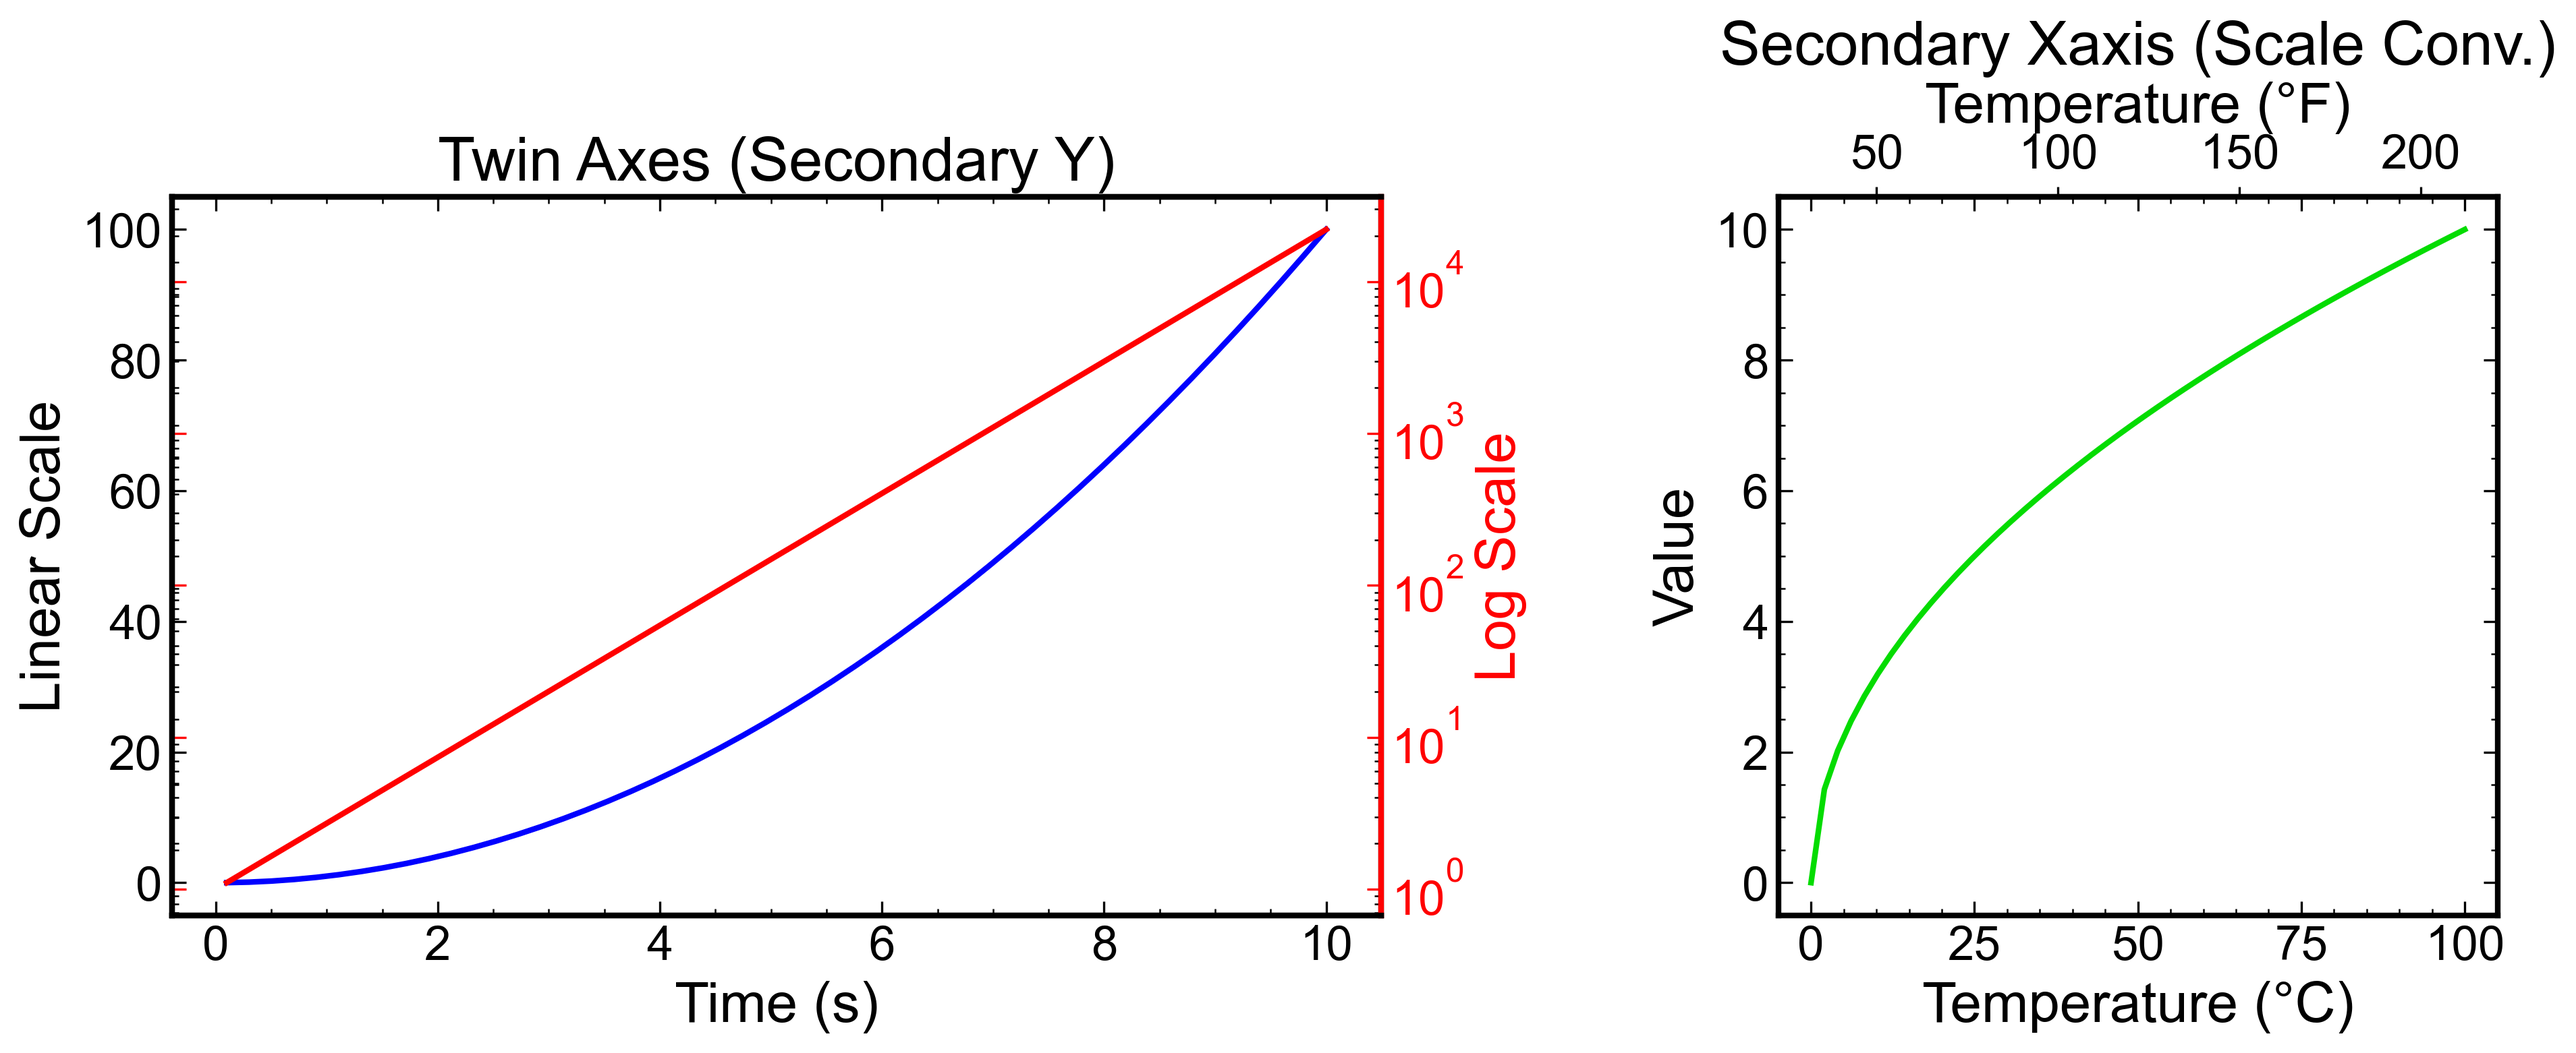
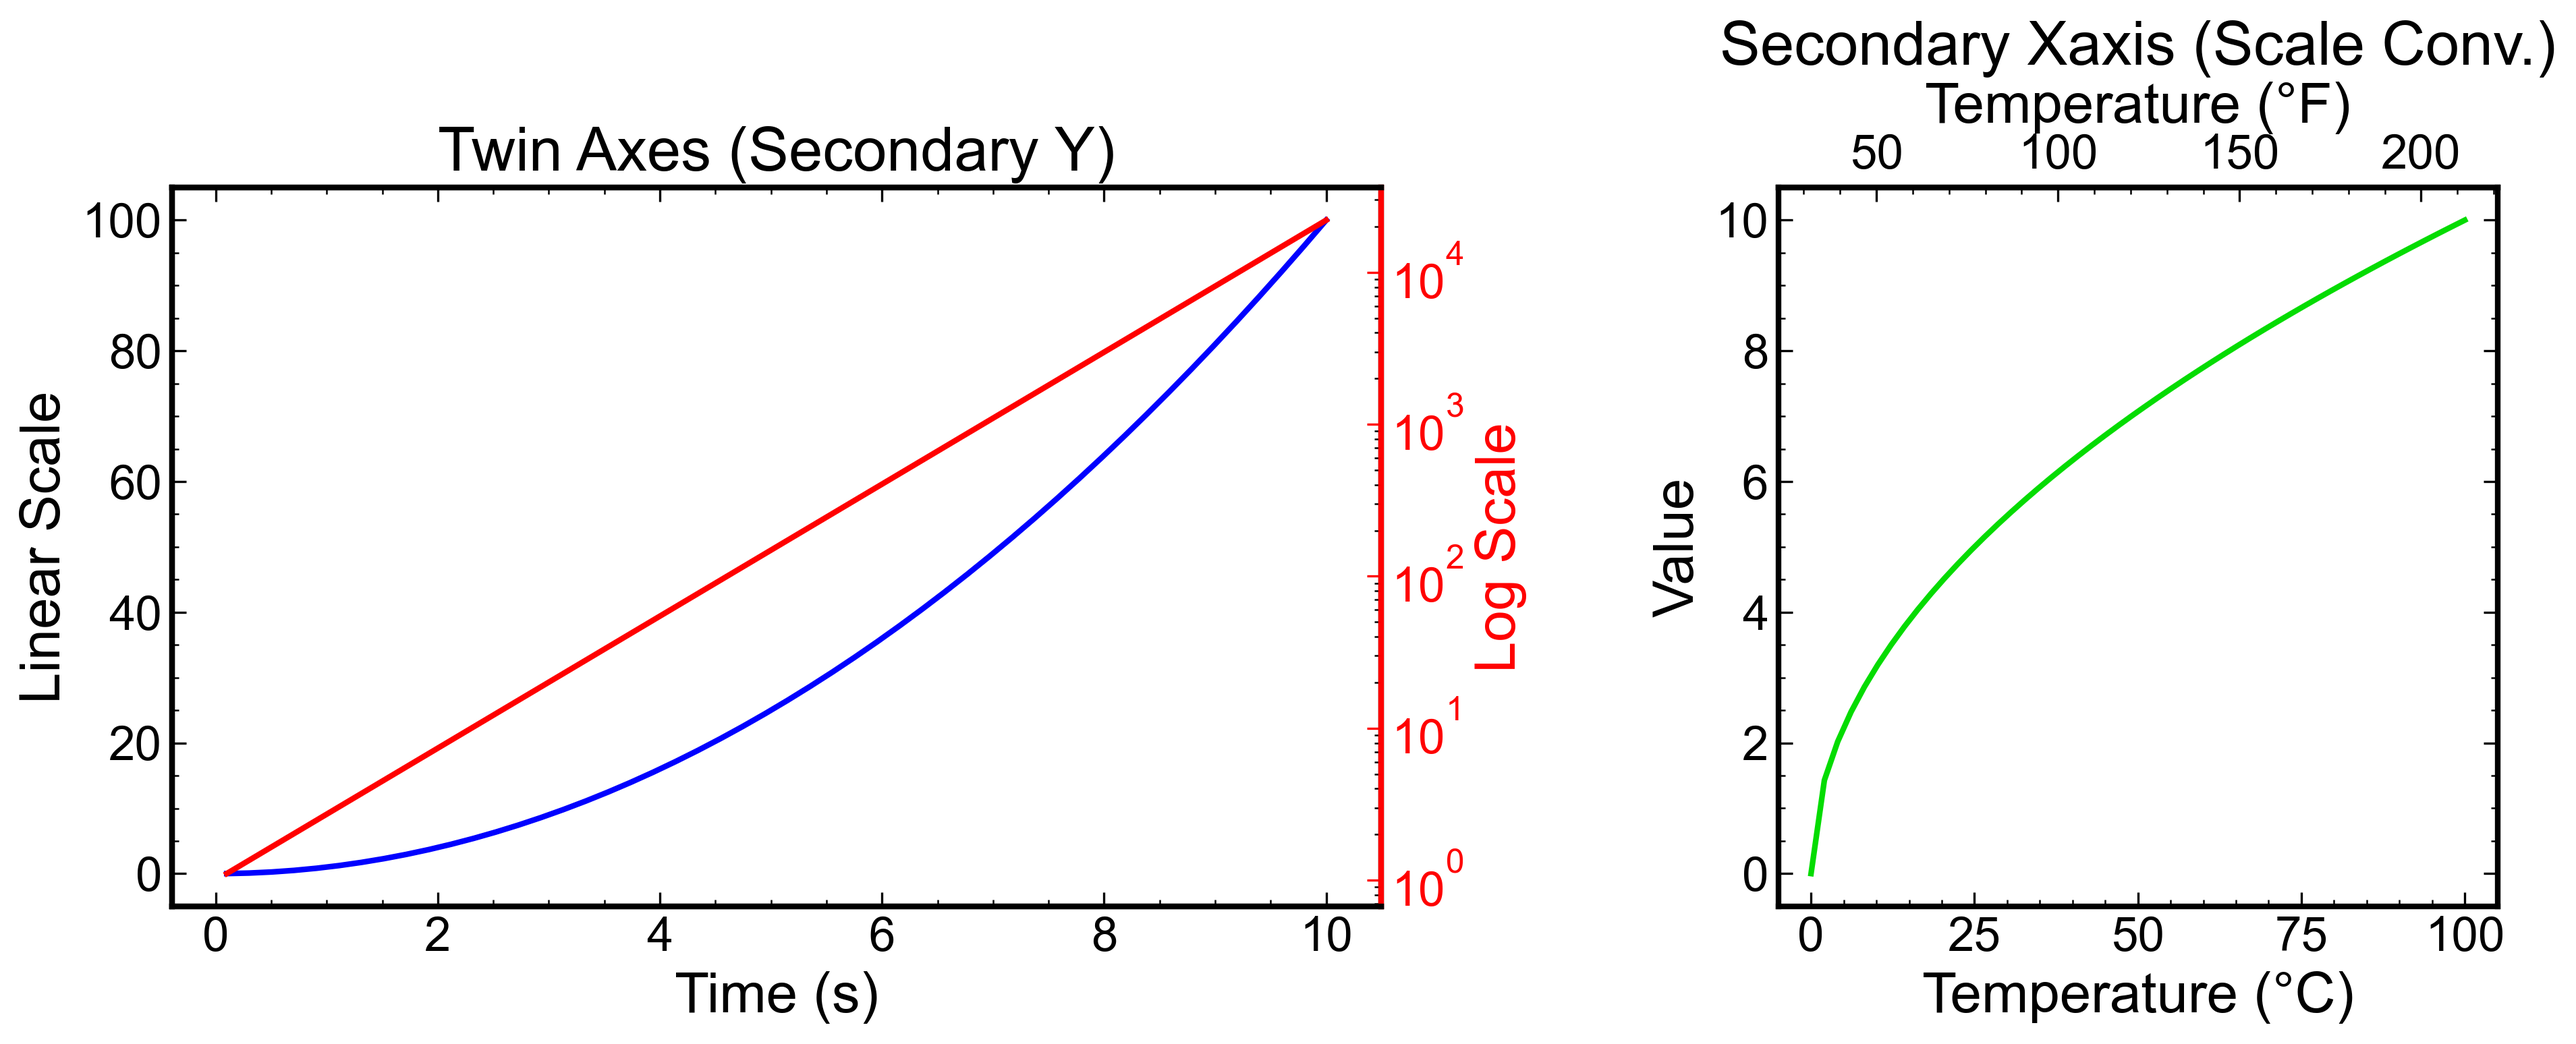
update sharexy&twinxy

diff --git a/symple_plot/plotter.py b/symple_plot/plotter.py
@@ -276,10 +276,16 @@ class symple_plot:
         
         if not is_3d:
             self.ax.minorticks_on()
+            # 🌟 第二軸が存在する場合にお互いの目盛りが侵食しないように制御 🌟
+            left_on = not getattr(self, 'is_twinx', False) and not getattr(self, 'hide_left_ticks', False)
+            right_on = not getattr(self, 'hide_right_ticks', False)
+            bottom_on = not getattr(self, 'is_twiny', False) and not getattr(self, 'hide_bottom_ticks', False)
+            top_on = not getattr(self, 'hide_top_ticks', False)
+
             self.ax.tick_params(which='major', direction='in', length=self.tlength, 
-                                top=True, bottom=True, left=True, right=True, labelsize=self.axinum)
+                                top=top_on, bottom=bottom_on, left=left_on, right=right_on, labelsize=self.axinum)
             self.ax.tick_params(which='minor', direction='in', length=self.tlength * 0.5, 
-                                top=True, bottom=True, left=True, right=True)
+                                top=top_on, bottom=bottom_on, left=left_on, right=right_on)
         else:
             self.ax.tick_params(axis='both', labelsize=self.axinum, length=self.tlength)
 
@@ -729,11 +735,15 @@ class symple_plot:
     # ==========================================
     def twinx(self, **kwargs):
         """第二Y軸 (右側) を作成して symple_plot インスタンスを返す。"""
-        self.aspect = 'auto'            # 元の軸のアスペクト比を自動にする
+        self.aspect = 'auto'
         self.ax.set_aspect('auto')
+        self.hide_right_ticks = True
+        self.ax.tick_params(right=False, which='both')  # 元の軸の右目盛りを消す
+        
         ax2 = self.ax.twinx()
         sp2 = symple_plot(ax2)
-        sp2.aspect = 'auto'             # 追加する軸のアスペクト比も自動にする
+        sp2.aspect = 'auto'
+        sp2.is_twinx = True  # 新しい軸の左目盛りをオフにするフラグ
         
         if alab := kwargs.get('alab'):
             ax2.set_ylabel(alab, fontsize=self.axilab)
@@ -748,9 +758,13 @@ class symple_plot:
         """第二X軸 (上側) を作成して symple_plot インスタンスを返す。"""
         self.aspect = 'auto'
         self.ax.set_aspect('auto')
+        self.hide_top_ticks = True
+        self.ax.tick_params(top=False, which='both')  # 元の軸の上目盛りを消す
+        
         ax2 = self.ax.twiny()
         sp2 = symple_plot(ax2)
         sp2.aspect = 'auto'
+        sp2.is_twiny = True  # 新しい軸の下目盛りをオフにするフラグ
         
         if alab := kwargs.get('alab'):
             ax2.set_xlabel(alab, fontsize=self.axilab)
@@ -761,22 +775,23 @@ class symple_plot:
             sp2.col = col
         return sp2
 
-    # ==========================================
-    # 🌟 第二軸 (Twin Axes & Secondary Axes) 🌟
-    # ==========================================
-    # ... (twinx, twiny のコードはそのまま維持) ...
-
     def secondary_xaxis(self, functions, location='top', **kwargs):
         """スケール変換用の第二X軸を作成する。
         単一の関数(順関数)のみを渡した場合は、SciPyを用いて逆関数を自動生成する。
         """
+        if location == 'top':
+            self.hide_top_ticks = True
+            self.ax.tick_params(top=False, which='both')
+        elif location == 'bottom':
+            self.hide_bottom_ticks = True
+            self.ax.tick_params(bottom=False, which='both')
+            
         if callable(functions):
             from scipy.interpolate import interp1d
             vmin, vmax = self.ax.get_xlim()
             margin = abs(vmax - vmin) * 0.5
             x_arr = np.linspace(vmin - margin, vmax + margin, 1000)
             y_arr = functions(x_arr)
-            # 単調性に配慮してソート
             if y_arr[-1] < y_arr[0]:
                 x_arr, y_arr = x_arr[::-1], y_arr[::-1]
             inv_func = interp1d(y_arr, x_arr, kind='linear', fill_value='extrapolate')
@@ -787,20 +802,31 @@ class symple_plot:
         sec_ax = self.ax.secondary_xaxis(location, functions=funcs)
         if alab := kwargs.get('alab'):
             sec_ax.set_xlabel(alab, fontsize=self.axilab)
-        sec_ax.tick_params(labelsize=self.axinum)
+            
+        # 🌟 主目盛り・補助目盛りの内向き設定とサイズ適用 🌟
+        sec_ax.minorticks_on()
+        sec_ax.tick_params(which='major', direction='in', length=self.tlength, labelsize=self.axinum)
+        sec_ax.tick_params(which='minor', direction='in', length=self.tlength * 0.5)
+        
         return sec_ax
 
     def secondary_yaxis(self, functions, location='right', **kwargs):
         """スケール変換用の第二Y軸を作成する。
         単一の関数(順関数)のみを渡した場合は、SciPyを用いて逆関数を自動生成する。
         """
+        if location == 'right':
+            self.hide_right_ticks = True
+            self.ax.tick_params(right=False, which='both')
+        elif location == 'left':
+            self.hide_left_ticks = True
+            self.ax.tick_params(left=False, which='both')
+            
         if callable(functions):
             from scipy.interpolate import interp1d
             vmin, vmax = self.ax.get_ylim()
             margin = abs(vmax - vmin) * 0.5
             y_arr = np.linspace(vmin - margin, vmax + margin, 1000)
             x_arr = functions(y_arr)
-            # 単調性に配慮してソート
             if x_arr[-1] < x_arr[0]:
                 y_arr, x_arr = y_arr[::-1], x_arr[::-1]
             inv_func = interp1d(x_arr, y_arr, kind='linear', fill_value='extrapolate')
@@ -811,5 +837,10 @@ class symple_plot:
         sec_ax = self.ax.secondary_yaxis(location, functions=funcs)
         if alab := kwargs.get('alab'):
             sec_ax.set_ylabel(alab, fontsize=self.axilab)
-        sec_ax.tick_params(labelsize=self.axinum)
+            
+        # 🌟 主目盛り・補助目盛りの内向き設定とサイズ適用 🌟
+        sec_ax.minorticks_on()
+        sec_ax.tick_params(which='major', direction='in', length=self.tlength, labelsize=self.axinum)
+        sec_ax.tick_params(which='minor', direction='in', length=self.tlength * 0.5)
+        
         return sec_ax

diff --git a/setup.py b/setup.py
@@ -2,7 +2,7 @@ from setuptools import setup, find_packages
 
 setup(
     name="symple_plot",
-    version="0.1.3.13",
+    version="0.1.3.14",
     packages=find_packages(),
     install_requires=[
         "numpy",

diff --git a/wiki/Utilities.md b/wiki/Utilities.md
@@ -170,7 +170,7 @@ from symple_plot import remove_background
 
 # シグナル + ドリフトするバックグラウンドを作成
 x = np.linspace(0, 10, 200)
-signal_true = np.exp(-((x - 5)**2) / 0.1)  # 鋭いピーク
+signal_true = 50*np.exp(-((x - 5)**2) / 0.1)  # 鋭いピーク
 bg_drift = 0.5 * np.sin(x * 0.5) + 0.1 * x   # うねるベースライン
 y_raw = signal_true + bg_drift
 
